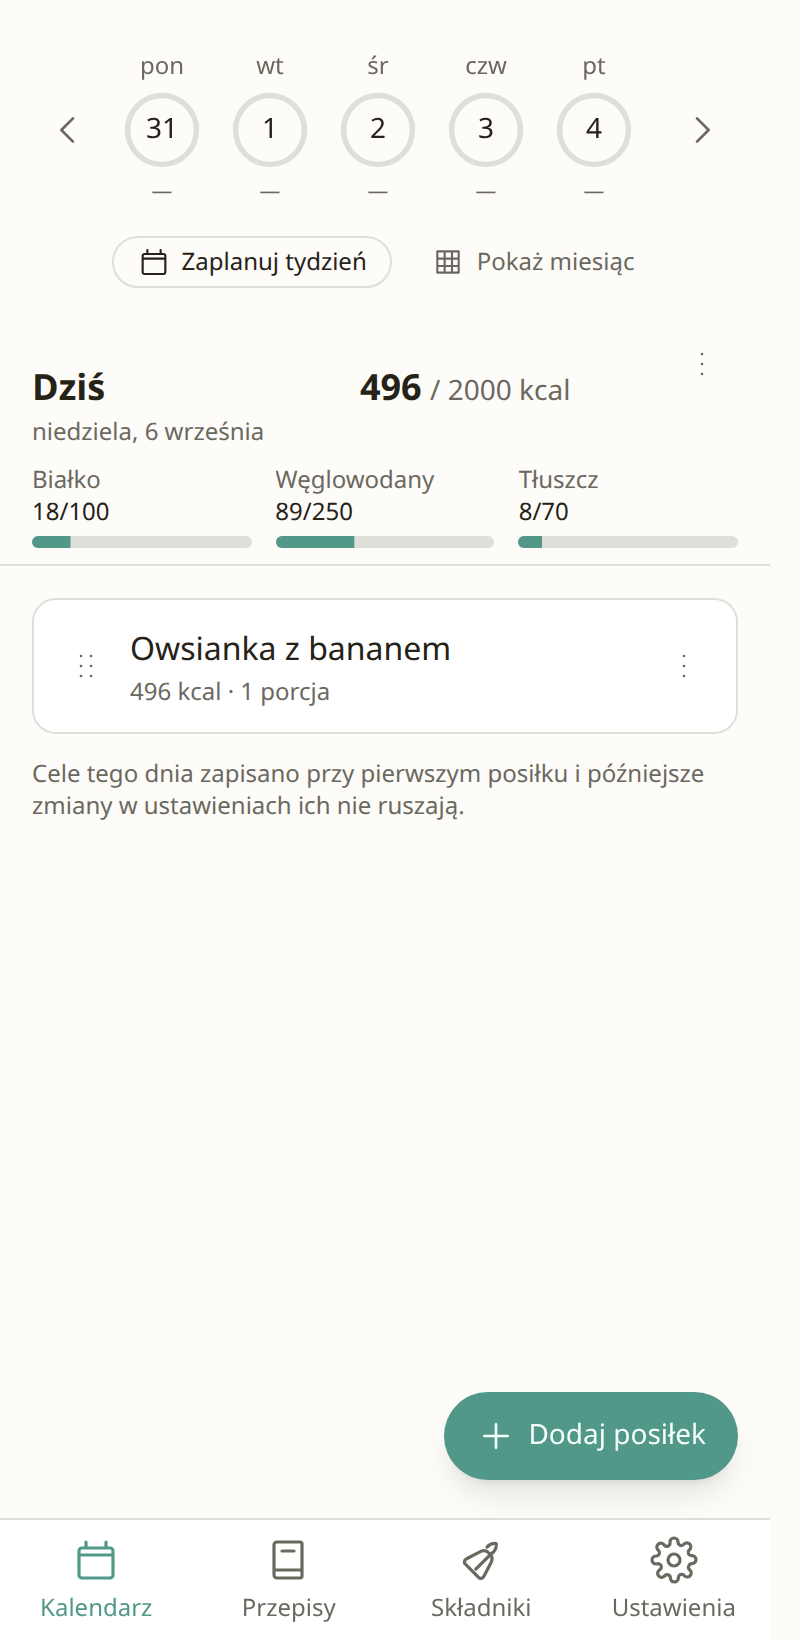
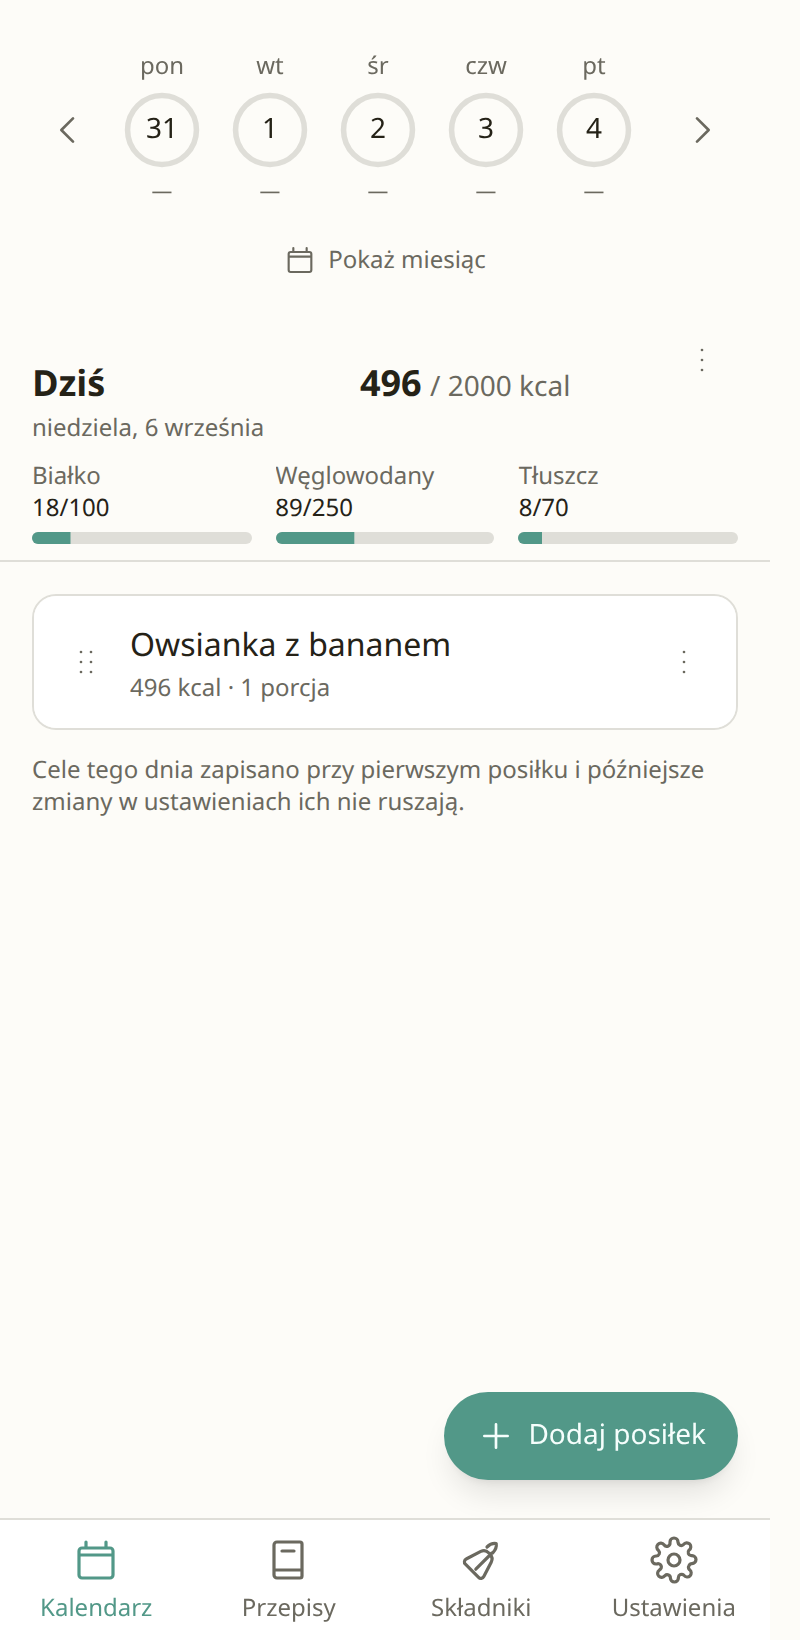
fix(day): put „Zaplanuj tydzień" beside „Zaplanuj dzień"
The pill under the week strip was the wrong place: next to „Pokaż miesiąc"
it reads as another way to look at the calendar, not as the thing that fills
it in. The button now stands in the empty-day card beside „Zaplanuj dzień" —
the same act at two scales, side by side — outlined in the accent rather
than filled, because two solid buttons in one row shout over each other.

The ⋮ menu keeps its „Zaplanuj tydzień" row: the empty-day card is gone the
moment a day has one meal, and a planned Tuesday is exactly when the rest of
the week gets asked for. The strip goes back to the month toggle alone.

diff --git a/src/lib/components/DayScreen.svelte b/src/lib/components/DayScreen.svelte
@@ -34,9 +34,6 @@
   const PLUS = 'M12 5v14M5 12h14';
   const CALENDAR =
     'M7 3v3M17 3v3M3.5 9.5h17M5 6h14a1.5 1.5 0 0 1 1.5 1.5v12A1.5 1.5 0 0 1 19 21H5a1.5 1.5 0 0 1-1.5-1.5v-12A1.5 1.5 0 0 1 5 6Z';
-  // The month toggle draws the grid it opens, so the two pills under the strip are not the
-  // same glyph twice.
-  const GRID = 'M4 4h16v16H4zM4 9.5h16M4 15h16M9.5 4v16M15 4v16';
 
   let { date, today }: { date: string; today: string } = $props();
 
@@ -233,18 +230,7 @@
 {:else}
   <WeekStrip summaries={week} selected={date} {today} />
 
-  <!-- „Zaplanuj tydzień" sits under the strip that draws the week rather than inside the ⋮
-       menu: it is the reason the planner exists, and a menu is where a feature goes to be
-       forgotten. Copying a day stayed in the menu, which is where an occasional action belongs. -->
-  <div class="flex flex-wrap items-center justify-center gap-2 pt-1">
-    <button
-      type="button"
-      class="flex items-center gap-1.5 rounded-full border border-(--color-border) px-3 py-1 text-xs font-medium"
-      onclick={() => openPlanner('week')}
-    >
-      <NavIcon path={CALENDAR} class="size-4" />
-      Zaplanuj tydzień
-    </button>
+  <div class="flex justify-center pt-1">
     <button
       type="button"
       class="flex items-center gap-1.5 rounded-full px-3 py-1 text-xs font-medium text-(--color-ink-muted)"
@@ -254,7 +240,7 @@
         monthShown = !monthShown;
       }}
     >
-      <NavIcon path={GRID} class="size-4" />
+      <NavIcon path={CALENDAR} class="size-4" />
       {monthShown ? 'Ukryj miesiąc' : 'Pokaż miesiąc'}
     </button>
   </div>
@@ -312,6 +298,16 @@
             onclick={() => openPlanner('day')}
           >
             {day.meals.length === 0 ? 'Zaplanuj dzień' : 'Uzupełnij dzień'}
+          </button>
+          <!-- The buttons in the empty-day hint are the primary way in, but the hint is gone
+               the moment the day has a meal, and „Zaplanuj tydzień" must stay reachable from a
+               day that is already planned. -->
+          <button
+            type="button"
+            class="block w-full rounded-lg px-3 py-2 text-left text-sm"
+            onclick={() => openPlanner('week')}
+          >
+            Zaplanuj tydzień
           </button>
           <button
             type="button"
@@ -380,6 +376,16 @@
             onclick={() => openPlanner('day')}
           >
             Zaplanuj dzień
+          </button>
+          <!-- Outlined in the accent rather than filled: it is the same weight of action as
+               „Zaplanuj dzień" and belongs beside it, but two solid buttons in one row shout
+               over each other and neither reads as the first thing to press. -->
+          <button
+            type="button"
+            class="rounded-lg border border-(--color-accent) px-4 py-2 text-sm font-medium text-(--color-accent)"
+            onclick={() => openPlanner('week')}
+          >
+            Zaplanuj tydzień
           </button>
           <button
             type="button"

diff --git a/e2e/planner.spec.ts b/e2e/planner.spec.ts
@@ -185,7 +185,7 @@ test('a week is planned, applied, and its batch reads as a batch on the meal scr
   await connectWith(device, drive);
   await device.goto('#/');
 
-  // „Zaplanuj tydzień" has its own pill under the week strip — no menu to open (decision 294).
+  // „Zaplanuj tydzień" stands beside „Zaplanuj dzień" on an empty day — no menu to open.
   await device.getByRole('button', { name: 'Zaplanuj tydzień' }).first().click();
 
   const sheet = device.getByRole('dialog');
@@ -202,6 +202,12 @@ test('a week is planned, applied, and its batch reads as a batch on the meal scr
   await expect(
     device.getByRole('list', { name: 'Posiłki dnia' }).getByRole('listitem')
   ).not.toHaveCount(0);
+
+  // The empty-day hint that carried the button is gone with the meals in place, so the ⋮ menu
+  // has to keep the week reachable — otherwise the feature disappears once a day is planned.
+  await device.getByLabel('Menu dnia').click();
+  await expect(device.getByRole('button', { name: 'Zaplanuj tydzień' })).toBeVisible();
+  await device.getByLabel('Menu dnia').click();
 
   // A batch written by the planner is the same thing the checkbox writes: the meal screen
   // recognises tomorrow's copy and shows the box ticked (PLAN.md „Gotowanie na zapas").
@@ -322,7 +328,7 @@ test('a run’s length is changed in the proposal without touching the template'
   await connectWith(device, drive);
   await device.goto('#/');
 
-  // „Zaplanuj tydzień" has its own pill under the week strip — no menu to open (decision 294).
+  // „Zaplanuj tydzień" stands beside „Zaplanuj dzień" on an empty day — no menu to open.
   await device.getByRole('button', { name: 'Zaplanuj tydzień' }).first().click();
 
   const sheet = device.getByRole('dialog');

diff --git a/STATE.md b/STATE.md
@@ -3619,18 +3619,23 @@ Ground truth: 293 kcal, 2.5 g protein, 3.2 g carbohydrate, 30.0 g fat.
      `calendar.ts` counts days from an arbitrary start and `weekDates` is now written in terms
      of it, so the Monday-first week and the movable one cannot drift apart.
 
-295. **„Zaplanuj tydzień" left the ⋮ menu and became a pill under the week strip.** Also
+295. **„Zaplanuj tydzień" is a button beside „Zaplanuj dzień", not a row in the ⋮ menu.** Also
      reported from use, and the sharper half of the complaint: the app's headline feature was
-     one of seven rows in an overflow menu, indistinguishable from „Wyczyść dzień". It now sits
-     directly under the strip that draws the week it plans, beside the month toggle, which is
-     the only place on the screen where a week is already the subject. The two pills carry
-     different glyphs — a calendar for the planner, a grid for the month it opens — so they do
-     not read as one control drawn twice.
+     one of seven rows in an overflow menu, indistinguishable from „Wyczyść dzień". It now
+     stands in the empty-day hint next to „Zaplanuj dzień" — the two are the same kind of act
+     at two scales, and that card is what a day with nothing on it actually offers. Outlined in
+     the accent rather than filled, because two solid buttons in one row shout over each other.
+
+     It was tried first as a pill under the week strip, beside „Pokaż miesiąc", on the argument
+     that the strip is where a week is already the subject. The user rejected it: next to a
+     view toggle it reads as another way to *look* at the calendar, not as the thing that fills
+     it in. **The ⋮ menu keeps a „Zaplanuj tydzień" row anyway** — the hint disappears the
+     moment a day has one meal, and a planned Tuesday is exactly when „zaplanuj mi resztę
+     tygodnia" gets asked.
 
      What moved the other way: **copying a day is now only in the menu**. The empty-day hint had
-     „Skopiuj z innego dnia" as its third button, which put a rare action next to the two that
-     matter on the screen a new user meets. The menu keeps both copy directions; the hint keeps
-     „Zaplanuj dzień" and „Dodaj posiłek", and the week is one row above it.
+     „Skopiuj z innego dnia" as its third button, which put a rare action next to the ones that
+     matter on the screen a new user meets. The menu keeps both copy directions.
 
 ## Open questions
 
